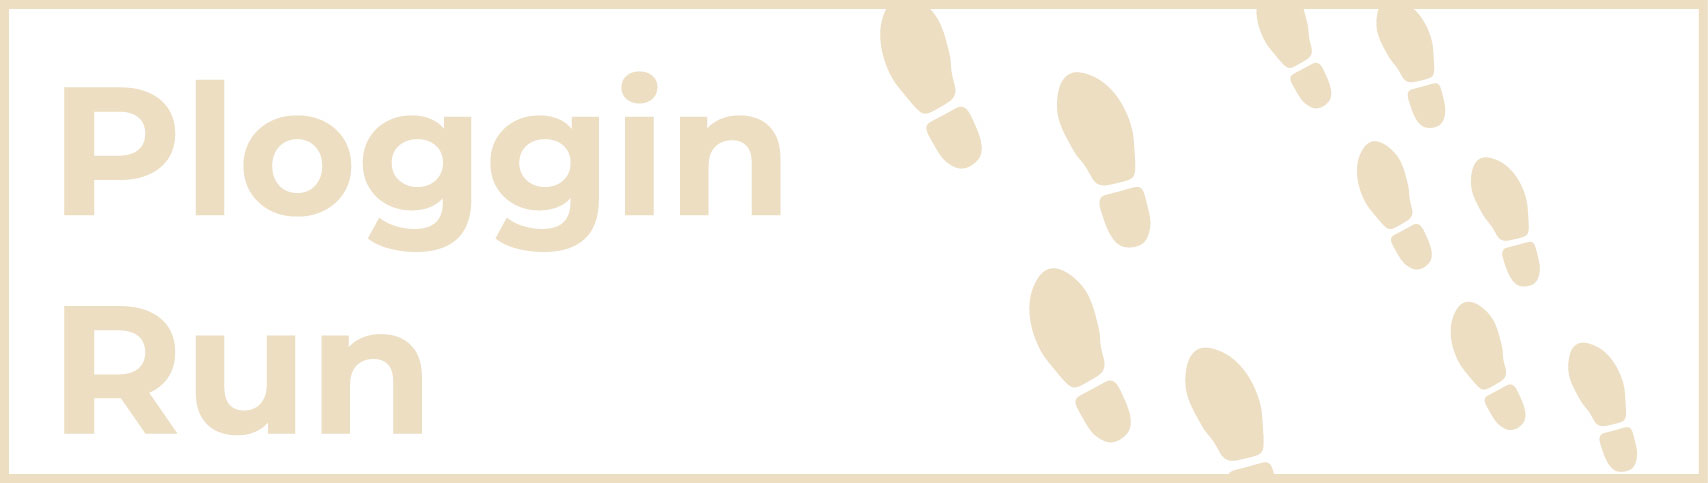
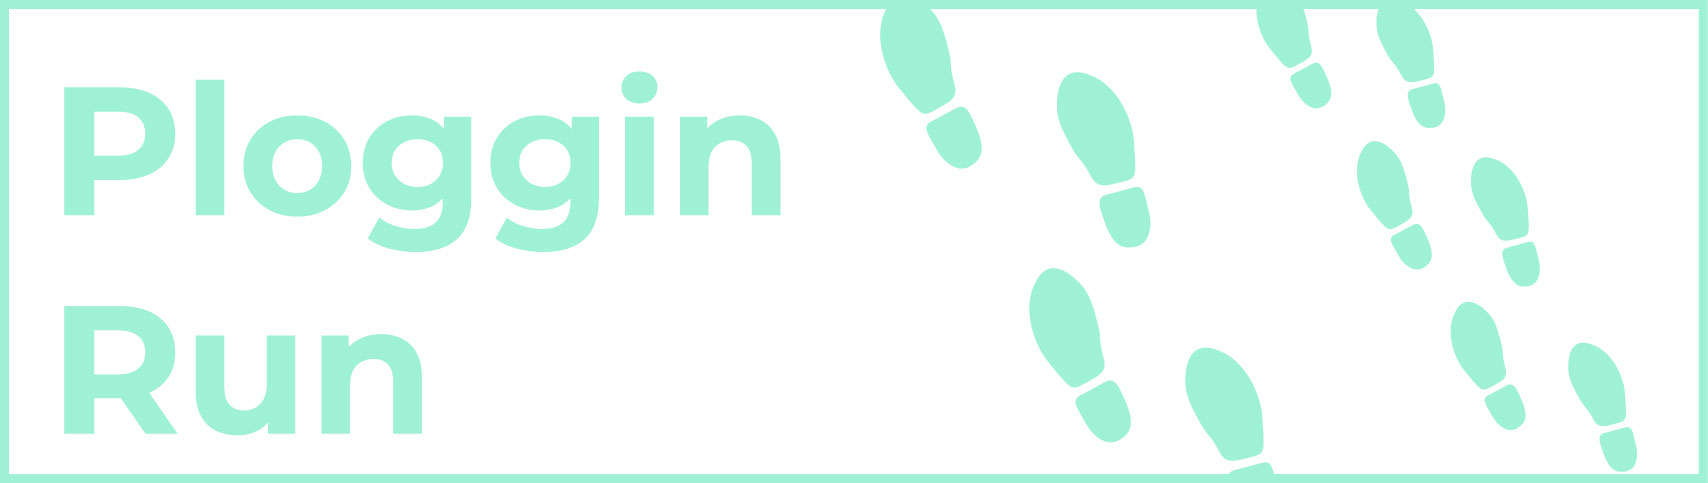
opdate på af letlæslighed
har udsiftet en af farverne samt img-trigger billede fordi det var for svært at læse

Changed region(s): [[0.0, 0.0, 1.0, 1.0], [0.7758, 0.2795, 0.8999, 0.5901], [0.6206, 0.1553, 0.6827, 0.528]]

diff --git a/assets/css/style.css b/assets/css/style.css
@@ -75,7 +75,7 @@
 }
 
 .event-box[data-color="#4CAF50"]:hover {
-    border-color: #ede0ca;
+    border-color: #b2d1d6;
 }
 
 /* Event heading */

diff --git a/pop-op-event.php b/pop-op-event.php
@@ -85,19 +85,19 @@ function popup_event_shortcode( $atts ) {
                 'heading' => 'Sommerfest 2025',
                 'date' => '20. Juni 2025',
                 'description' => 'Fejr sommeren med musik, mad og gode venner. Hele dagen fyldt med sjove aktiviteter.',
-                'color' => '#26376B'
+                'color' => '#8bc8e5'
             ),
             array(
                 'heading' => 'Grillaften',
                 'date' => '5. Juli 2025',
                 'description' => 'Hyggelig grillaften under åben himmel. Kom og nyd god mad og godt selskab.',
-                'color' => '#26376B'
+                'color' => '#8bc8e5'
             ),
             array(
                 'heading' => 'Havnefest',
                 'date' => '15. August 2025',
                 'description' => 'Store havnefest med livemusik, god mad og festlig stemning ved vandet.',
-                'color' => '#26376B'
+                'color' => '#8bc8e5'
             ),
         ),
         '3' => array(
@@ -105,19 +105,19 @@ function popup_event_shortcode( $atts ) {
                 'heading' => 'Julemarked',
                 'date' => '1. December 2025',
                 'description' => 'Besøg vores hyggelige julemarked med håndlavede gaver, varm kakao og julemusik.',
-                'color' => '#26376B'
+                'color' => '#b2d1d6'
             ),
             array(
                 'heading' => 'Julekoncert',
                 'date' => '15. December 2025',
                 'description' => 'Smuk julekoncert i kirken med kor, solister og traditionelle julesange.',
-                'color' => '#26376B'
+                'color' => '#b2d1d6'
             ),
             array(
                 'heading' => 'Nytårsshow',
                 'date' => '31. December 2025',
                 'description' => 'Spektakulært nytårsshow med fyrværkeri, underholdning og champagne ved midnat.',
-                'color' => '#26376B'
+                'color' => '#b2d1d6'
             ),
         ),
     );
